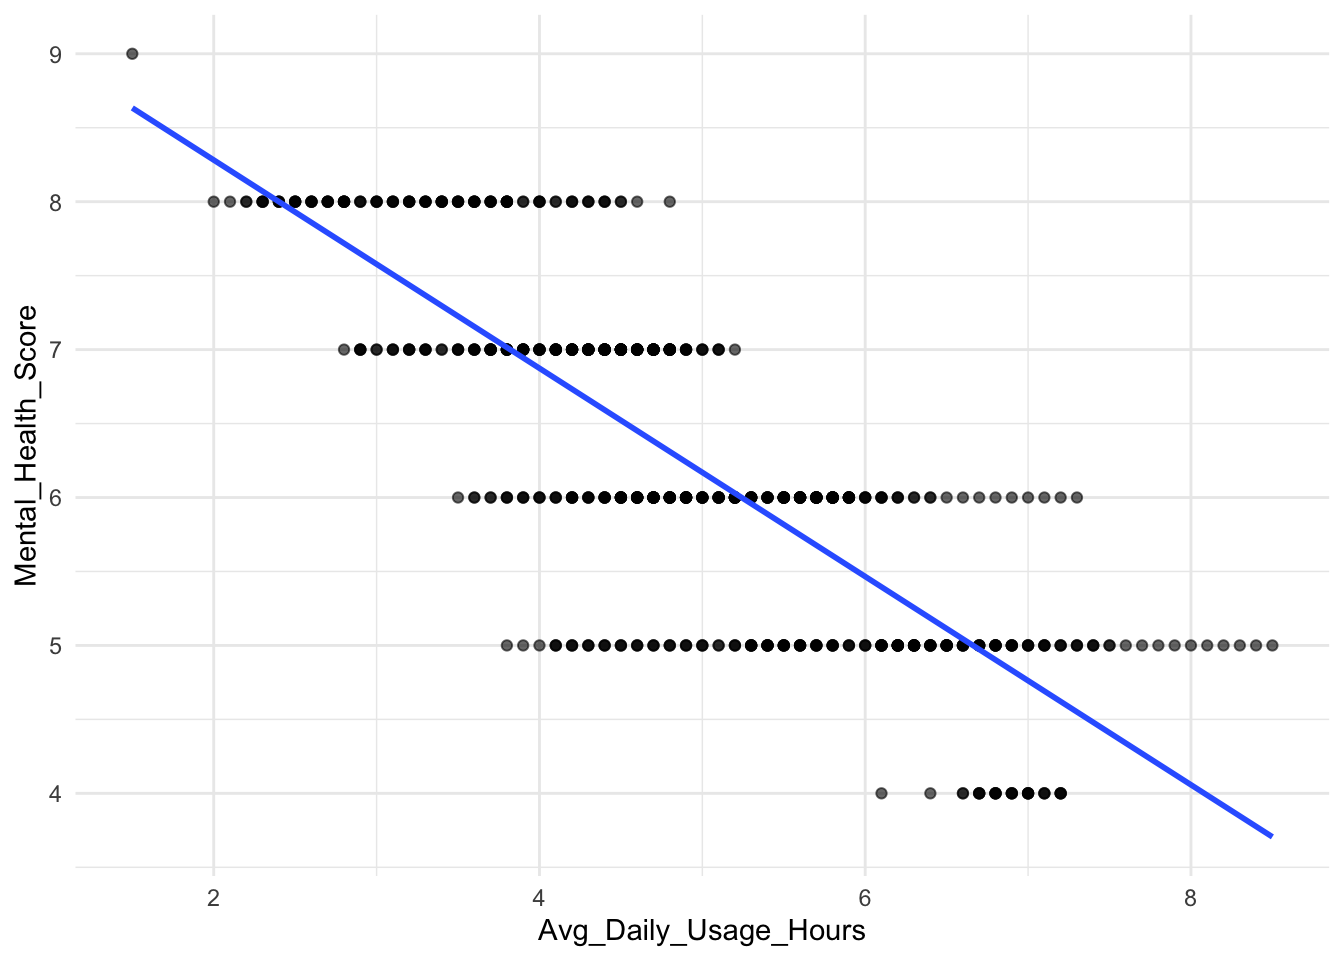
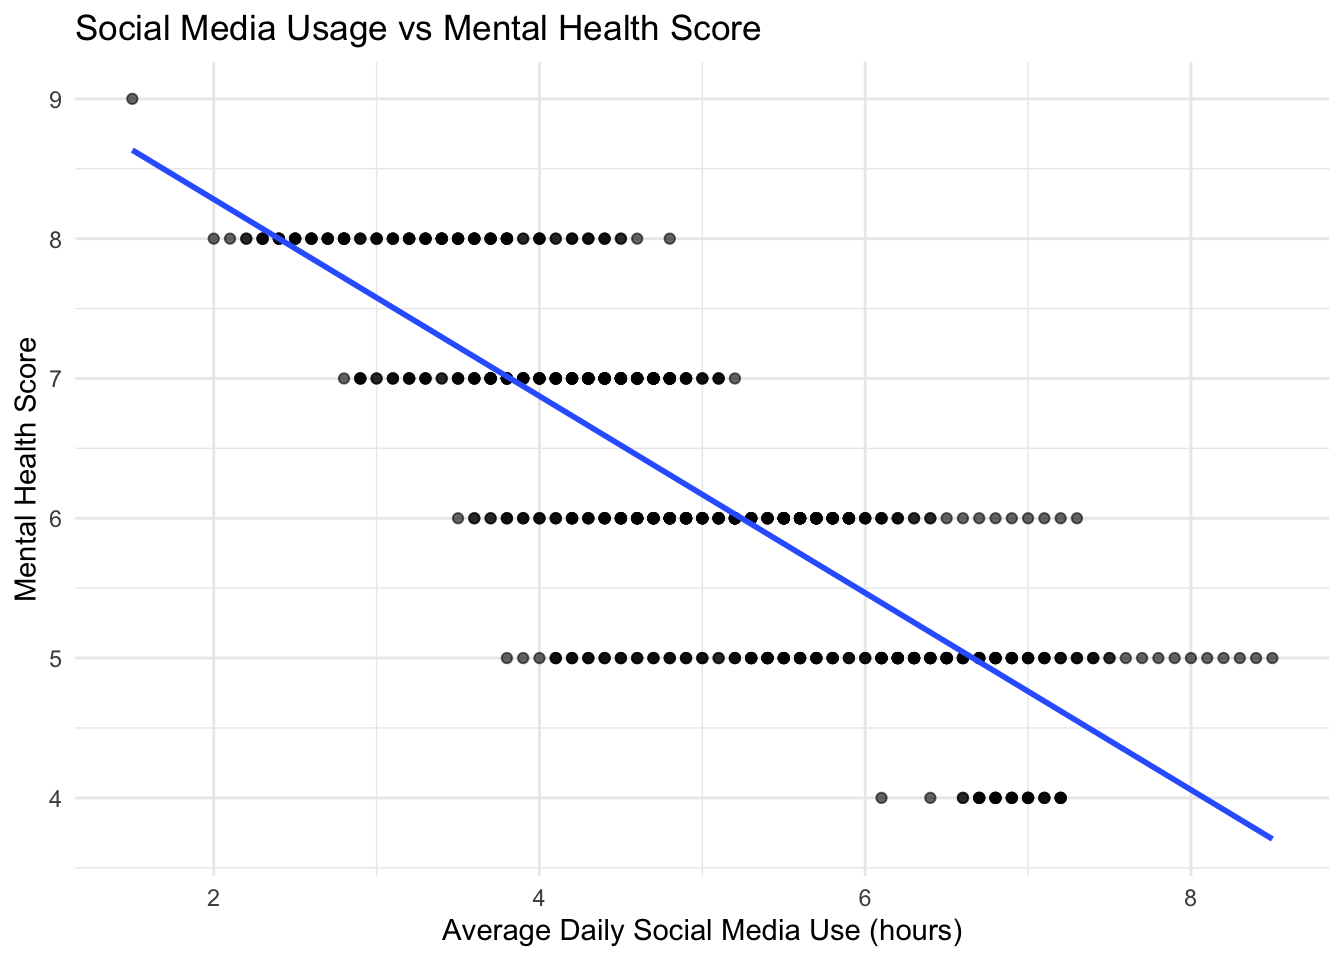
Added title in scatterplot and changed the fill title in stacked barchart

diff --git a/assignment 3.html b/assignment 3.html
@@ -224,7 +224,7 @@ Figure&nbsp;1: Distribution of Addicted Scores
 <span id="cb8-2"><a href="#cb8-2" aria-hidden="true" tabindex="-1"></a>  <span class="fu">geom_bar</span>(<span class="at">position =</span> <span class="st">"fill"</span>) <span class="sc">+</span></span>
 <span id="cb8-3"><a href="#cb8-3" aria-hidden="true" tabindex="-1"></a>  <span class="fu">labs</span>(<span class="at">title =</span> <span class="st">"Interpersonal Conflicts by Addiction Score"</span>,</span>
 <span id="cb8-4"><a href="#cb8-4" aria-hidden="true" tabindex="-1"></a>       <span class="at">x =</span> <span class="st">"Addicted Score"</span>, <span class="at">y =</span> <span class="st">"Proportion"</span>,</span>
-<span id="cb8-5"><a href="#cb8-5" aria-hidden="true" tabindex="-1"></a>       <span class="at">fill =</span> <span class="st">"Conflicts Occurred?"</span>) <span class="sc">+</span></span>
+<span id="cb8-5"><a href="#cb8-5" aria-hidden="true" tabindex="-1"></a>       <span class="at">fill =</span> <span class="st">"Number of Conflicts"</span>) <span class="sc">+</span></span>
 <span id="cb8-6"><a href="#cb8-6" aria-hidden="true" tabindex="-1"></a>  <span class="fu">theme_minimal</span>() <span class="sc">+</span></span>
 <span id="cb8-7"><a href="#cb8-7" aria-hidden="true" tabindex="-1"></a>  <span class="fu">theme</span>(<span class="at">axis.text.x =</span> <span class="fu">element_text</span>(<span class="at">angle =</span> <span class="dv">45</span>, <span class="at">hjust =</span> <span class="dv">1</span>))</span></code><button title="Copy to Clipboard" class="code-copy-button"><i class="bi"></i></button></pre></div>
 <div class="cell-output-display">
@@ -246,10 +246,12 @@ Figure&nbsp;2: Interpersonal Conflicts by Addiction Score
 <span id="cb9-2"><a href="#cb9-2" aria-hidden="true" tabindex="-1"></a>               <span class="at">y =</span> Mental_Health_Score)) <span class="sc">+</span></span>
 <span id="cb9-3"><a href="#cb9-3" aria-hidden="true" tabindex="-1"></a>  <span class="fu">geom_point</span>(<span class="at">alpha =</span> <span class="fl">0.6</span>) <span class="sc">+</span></span>
 <span id="cb9-4"><a href="#cb9-4" aria-hidden="true" tabindex="-1"></a>  <span class="fu">geom_smooth</span>(<span class="at">method =</span> <span class="st">"lm"</span>, <span class="at">se =</span> <span class="cn">FALSE</span>) <span class="sc">+</span></span>
-<span id="cb9-5"><a href="#cb9-5" aria-hidden="true" tabindex="-1"></a>  <span class="fu">theme_minimal</span>()</span></code><button title="Copy to Clipboard" class="code-copy-button"><i class="bi"></i></button></pre></div>
-<div class="cell-output cell-output-stderr">
-<pre><code>`geom_smooth()` using formula = 'y ~ x'</code></pre>
-</div>
+<span id="cb9-5"><a href="#cb9-5" aria-hidden="true" tabindex="-1"></a>  <span class="fu">labs</span>(</span>
+<span id="cb9-6"><a href="#cb9-6" aria-hidden="true" tabindex="-1"></a>    <span class="at">title =</span> <span class="st">"Social Media Usage vs Mental Health Score"</span>,</span>
+<span id="cb9-7"><a href="#cb9-7" aria-hidden="true" tabindex="-1"></a>    <span class="at">x =</span> <span class="st">"Average Daily Social Media Use (hours)"</span>,</span>
+<span id="cb9-8"><a href="#cb9-8" aria-hidden="true" tabindex="-1"></a>    <span class="at">y =</span> <span class="st">"Mental Health Score"</span></span>
+<span id="cb9-9"><a href="#cb9-9" aria-hidden="true" tabindex="-1"></a>  ) <span class="sc">+</span></span>
+<span id="cb9-10"><a href="#cb9-10" aria-hidden="true" tabindex="-1"></a>  <span class="fu">theme_minimal</span>()</span></code><button title="Copy to Clipboard" class="code-copy-button"><i class="bi"></i></button></pre></div>
 <div class="cell-output-display">
 <div id="fig-scatterplot" class="quarto-float quarto-figure quarto-figure-center anchored">
 <figure class="quarto-float quarto-float-fig figure">
@@ -270,14 +272,14 @@ Figure&nbsp;3: Interpersonal Conflicts by Addiction Score
 Table&nbsp;2: Average Usage Hours and Addiction Score by Platform
 </figcaption>
 <div aria-describedby="tbl-table-caption-0ceaefa1-69ba-4598-a22c-09a6ac19f8ca">
-<div class="sourceCode cell-code" id="cb11"><pre class="sourceCode r code-with-copy"><code class="sourceCode r"><span id="cb11-1"><a href="#cb11-1" aria-hidden="true" tabindex="-1"></a>platform_summary <span class="ot">&lt;-</span> addiction <span class="sc">%&gt;%</span></span>
-<span id="cb11-2"><a href="#cb11-2" aria-hidden="true" tabindex="-1"></a>  <span class="fu">group_by</span>(Most_Used_Platform) <span class="sc">%&gt;%</span></span>
-<span id="cb11-3"><a href="#cb11-3" aria-hidden="true" tabindex="-1"></a>  <span class="fu">summarise</span>(</span>
-<span id="cb11-4"><a href="#cb11-4" aria-hidden="true" tabindex="-1"></a>    <span class="at">Average_Usage_Hours    =</span> <span class="fu">mean</span>(Avg_Daily_Usage_Hours, <span class="at">na.rm =</span> <span class="cn">TRUE</span>),</span>
-<span id="cb11-5"><a href="#cb11-5" aria-hidden="true" tabindex="-1"></a>    <span class="at">Average_Addicted_Score =</span> <span class="fu">mean</span>(Addicted_Score,        <span class="at">na.rm =</span> <span class="cn">TRUE</span>)</span>
-<span id="cb11-6"><a href="#cb11-6" aria-hidden="true" tabindex="-1"></a>  ) <span class="sc">%&gt;%</span></span>
-<span id="cb11-7"><a href="#cb11-7" aria-hidden="true" tabindex="-1"></a>  <span class="fu">arrange</span>(<span class="fu">desc</span>(Average_Usage_Hours))</span>
-<span id="cb11-8"><a href="#cb11-8" aria-hidden="true" tabindex="-1"></a>platform_summary</span></code><button title="Copy to Clipboard" class="code-copy-button"><i class="bi"></i></button></pre></div>
+<div class="sourceCode cell-code" id="cb10"><pre class="sourceCode r code-with-copy"><code class="sourceCode r"><span id="cb10-1"><a href="#cb10-1" aria-hidden="true" tabindex="-1"></a>platform_summary <span class="ot">&lt;-</span> addiction <span class="sc">%&gt;%</span></span>
+<span id="cb10-2"><a href="#cb10-2" aria-hidden="true" tabindex="-1"></a>  <span class="fu">group_by</span>(Most_Used_Platform) <span class="sc">%&gt;%</span></span>
+<span id="cb10-3"><a href="#cb10-3" aria-hidden="true" tabindex="-1"></a>  <span class="fu">summarise</span>(</span>
+<span id="cb10-4"><a href="#cb10-4" aria-hidden="true" tabindex="-1"></a>    <span class="at">Average_Usage_Hours    =</span> <span class="fu">mean</span>(Avg_Daily_Usage_Hours, <span class="at">na.rm =</span> <span class="cn">TRUE</span>),</span>
+<span id="cb10-5"><a href="#cb10-5" aria-hidden="true" tabindex="-1"></a>    <span class="at">Average_Addicted_Score =</span> <span class="fu">mean</span>(Addicted_Score,        <span class="at">na.rm =</span> <span class="cn">TRUE</span>)</span>
+<span id="cb10-6"><a href="#cb10-6" aria-hidden="true" tabindex="-1"></a>  ) <span class="sc">%&gt;%</span></span>
+<span id="cb10-7"><a href="#cb10-7" aria-hidden="true" tabindex="-1"></a>  <span class="fu">arrange</span>(<span class="fu">desc</span>(Average_Usage_Hours))</span>
+<span id="cb10-8"><a href="#cb10-8" aria-hidden="true" tabindex="-1"></a>platform_summary</span></code><button title="Copy to Clipboard" class="code-copy-button"><i class="bi"></i></button></pre></div>
 <div class="cell-output cell-output-stdout">
 <pre><code># A tibble: 12 × 3
    Most_Used_Platform Average_Usage_Hours Average_Addicted_Score
@@ -300,13 +302,13 @@ Table&nbsp;2: Average Usage Hours and Addiction Score by Platform
 </div>
 <p>Platform-Specific Patterns <a href="#tbl-table" class="quarto-xref">Table&nbsp;2</a>: WhatsApp users show both the highest average usage hours (6.48) and addiction scores (7.46), followed closely by TikTok users. Traditional platforms like Facebook and VKontakte demonstrate lower usage and addiction metrics. These findings support the research hypothesis that excessive social media engagement negatively impacts academic performance, interpersonal relationships, and mental health across student populations.</p>
 <div class="cell">
-<div class="sourceCode cell-code" id="cb13"><pre class="sourceCode r code-with-copy"><code class="sourceCode r"><span id="cb13-1"><a href="#cb13-1" aria-hidden="true" tabindex="-1"></a><span class="fu">ggplot</span>(addiction, <span class="fu">aes</span>(<span class="at">x =</span> Affects_Academic_Performance, <span class="at">y =</span> Addicted_Score, <span class="at">fill =</span> Affects_Academic_Performance)) <span class="sc">+</span></span>
-<span id="cb13-2"><a href="#cb13-2" aria-hidden="true" tabindex="-1"></a>  <span class="fu">geom_boxplot</span>() <span class="sc">+</span></span>
-<span id="cb13-3"><a href="#cb13-3" aria-hidden="true" tabindex="-1"></a>  <span class="fu">facet_wrap</span>(<span class="sc">~</span> Academic_Level) <span class="sc">+</span></span>
-<span id="cb13-4"><a href="#cb13-4" aria-hidden="true" tabindex="-1"></a>  <span class="fu">labs</span>(<span class="at">title =</span> <span class="st">"Addicted Score vs Academic Impact (by Academic Level)"</span>,</span>
-<span id="cb13-5"><a href="#cb13-5" aria-hidden="true" tabindex="-1"></a>       <span class="at">x =</span> <span class="st">"Does Social Media Affect Academic Performance?"</span>,</span>
-<span id="cb13-6"><a href="#cb13-6" aria-hidden="true" tabindex="-1"></a>       <span class="at">y =</span> <span class="st">"Addicted Score"</span>) <span class="sc">+</span></span>
-<span id="cb13-7"><a href="#cb13-7" aria-hidden="true" tabindex="-1"></a>  <span class="fu">theme_minimal</span>()</span></code><button title="Copy to Clipboard" class="code-copy-button"><i class="bi"></i></button></pre></div>
+<div class="sourceCode cell-code" id="cb12"><pre class="sourceCode r code-with-copy"><code class="sourceCode r"><span id="cb12-1"><a href="#cb12-1" aria-hidden="true" tabindex="-1"></a><span class="fu">ggplot</span>(addiction, <span class="fu">aes</span>(<span class="at">x =</span> Affects_Academic_Performance, <span class="at">y =</span> Addicted_Score, <span class="at">fill =</span> Affects_Academic_Performance)) <span class="sc">+</span></span>
+<span id="cb12-2"><a href="#cb12-2" aria-hidden="true" tabindex="-1"></a>  <span class="fu">geom_boxplot</span>() <span class="sc">+</span></span>
+<span id="cb12-3"><a href="#cb12-3" aria-hidden="true" tabindex="-1"></a>  <span class="fu">facet_wrap</span>(<span class="sc">~</span> Academic_Level) <span class="sc">+</span></span>
+<span id="cb12-4"><a href="#cb12-4" aria-hidden="true" tabindex="-1"></a>  <span class="fu">labs</span>(<span class="at">title =</span> <span class="st">"Addicted Score vs Academic Impact (by Academic Level)"</span>,</span>
+<span id="cb12-5"><a href="#cb12-5" aria-hidden="true" tabindex="-1"></a>       <span class="at">x =</span> <span class="st">"Does Social Media Affect Academic Performance?"</span>,</span>
+<span id="cb12-6"><a href="#cb12-6" aria-hidden="true" tabindex="-1"></a>       <span class="at">y =</span> <span class="st">"Addicted Score"</span>) <span class="sc">+</span></span>
+<span id="cb12-7"><a href="#cb12-7" aria-hidden="true" tabindex="-1"></a>  <span class="fu">theme_minimal</span>()</span></code><button title="Copy to Clipboard" class="code-copy-button"><i class="bi"></i></button></pre></div>
 <div class="cell-output-display">
 <div id="fig-variablechar" class="quarto-float quarto-figure quarto-figure-center anchored">
 <figure class="quarto-float quarto-float-fig figure">
